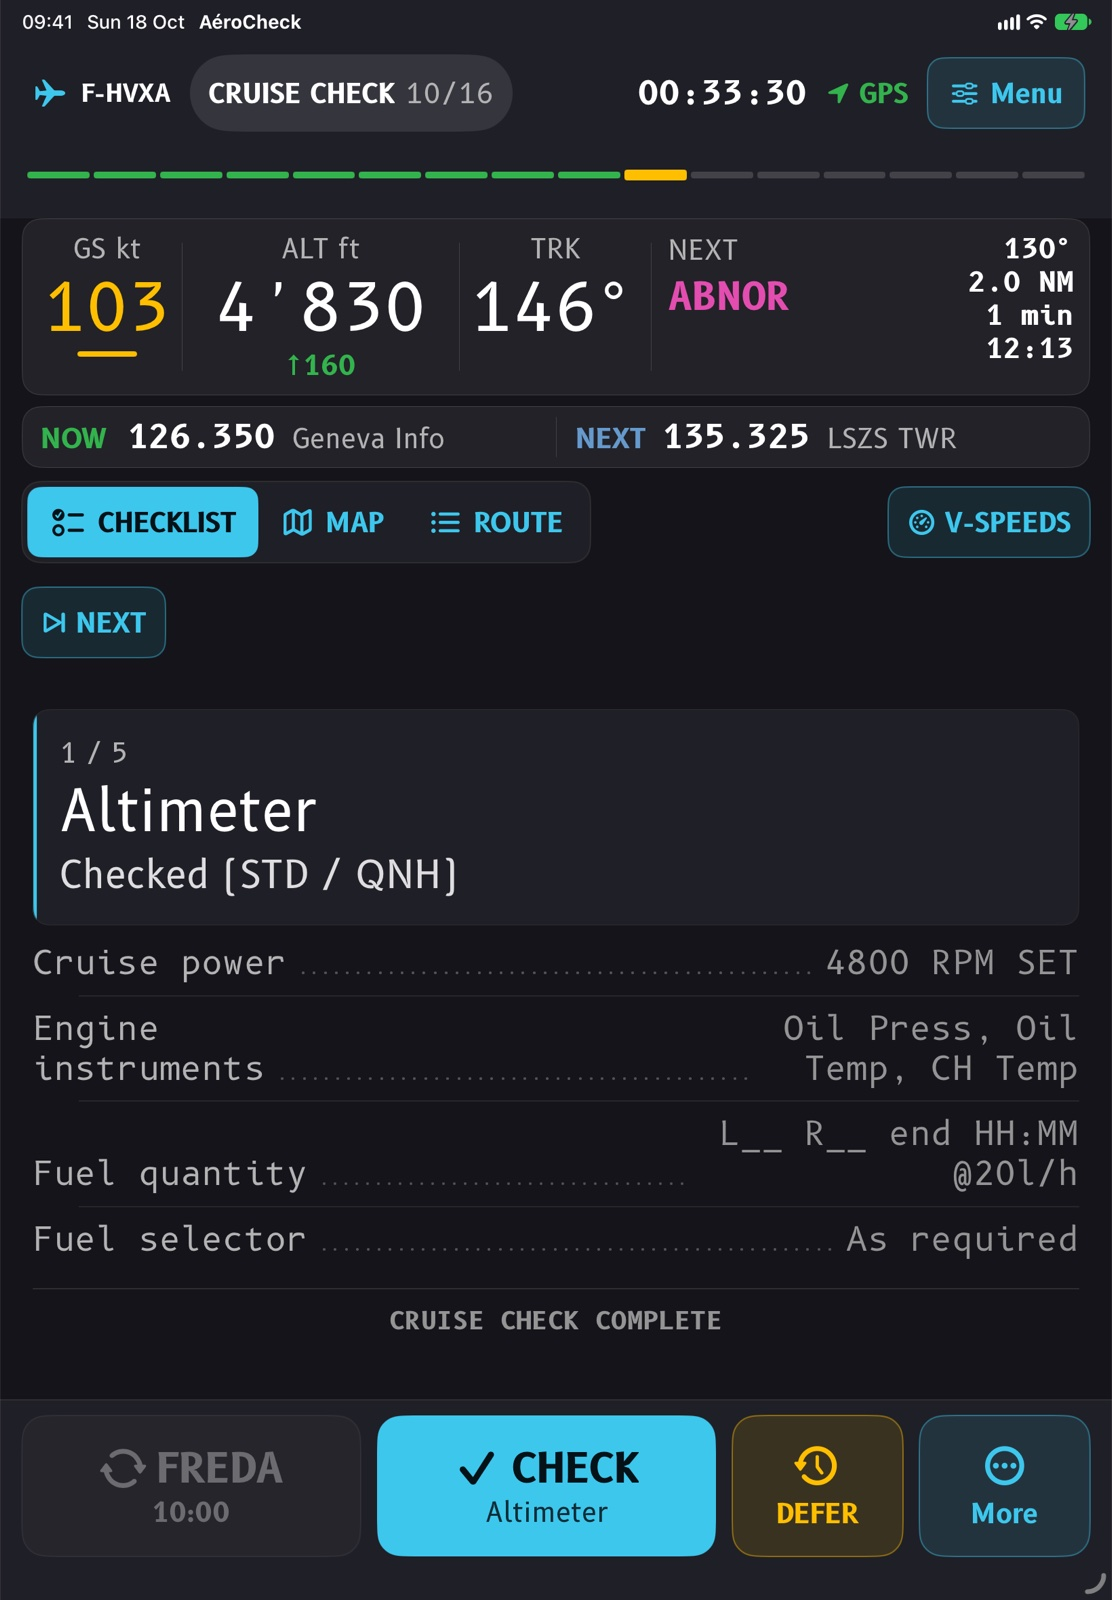
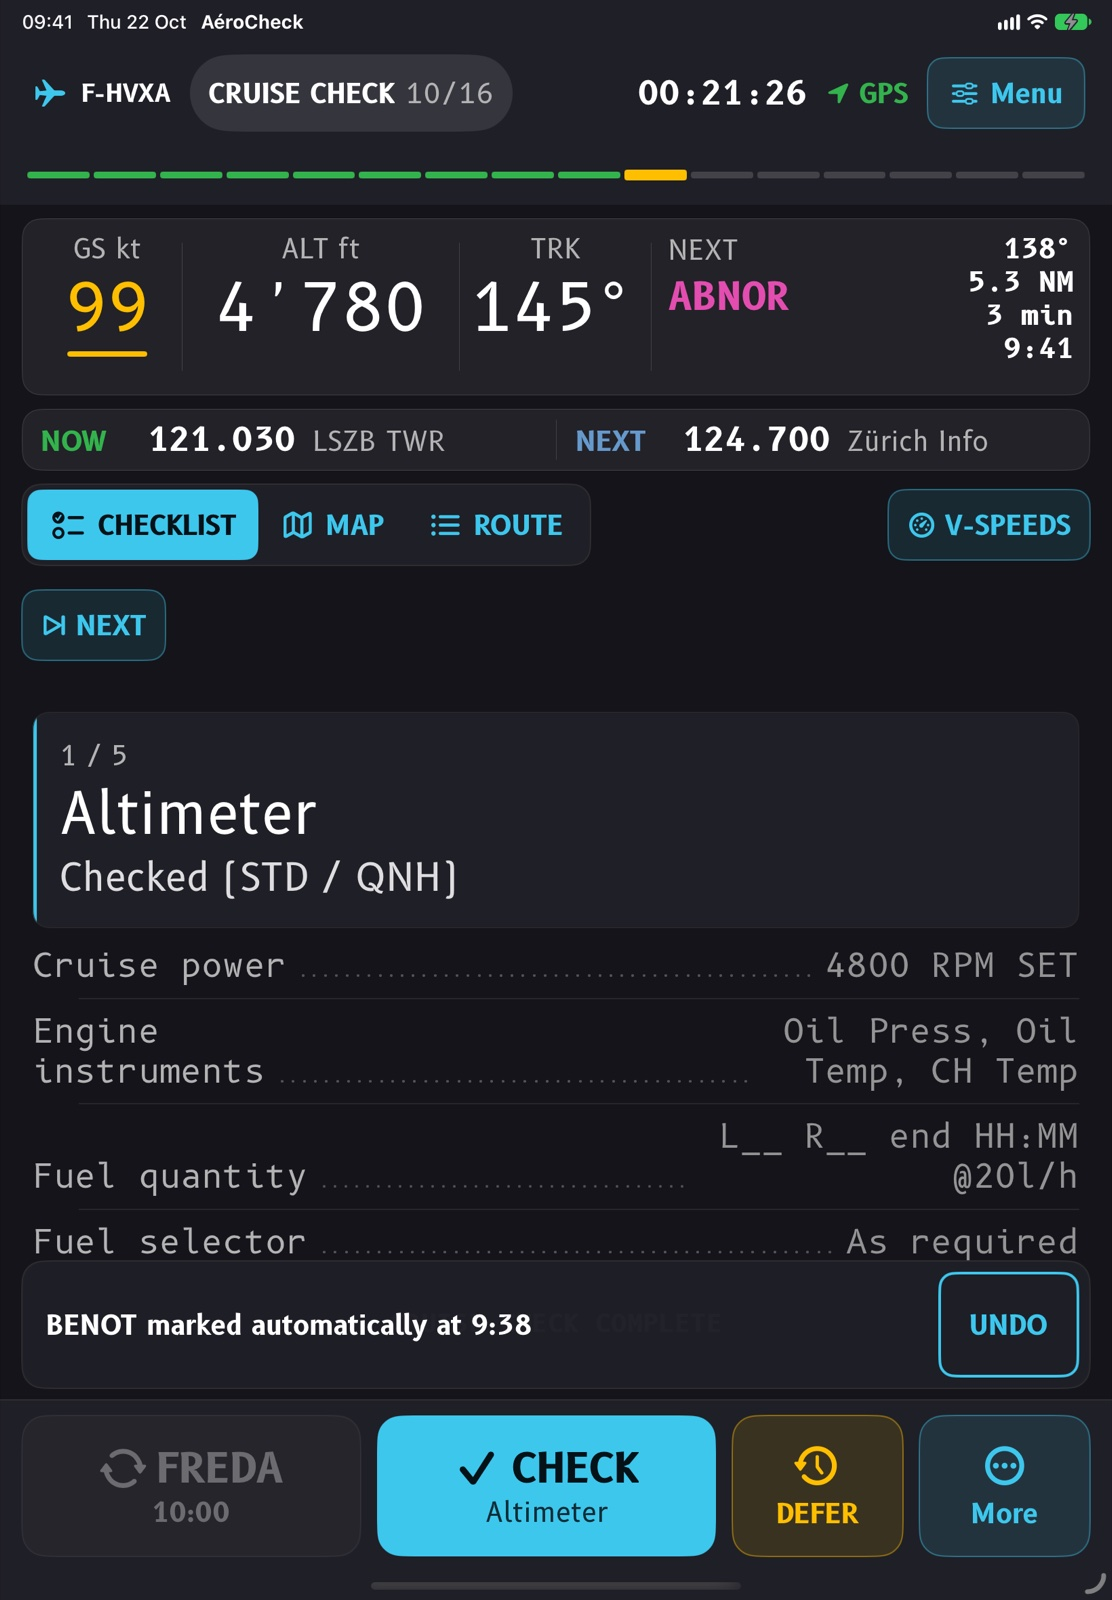
website: the story's Lake Biel frame from 6.4.3
The "Over Lake Biel" frame of /flight still showed 6.4.0's radio (Geneva
Info, Samedan's tower NEXT). Recaptured from the 6.4.3 tag on the same
replay of the 23 Sep flight: BENOT marked automatically with UNDO over
the open cruise check, Bern's tower NOW after a tap on NEXT when it came
due, Zürich Info NEXT. The caption, alt text and time follow, in English
and French, and SCREENSHOTS.md says how the frame was made.

diff --git a/SCREENSHOTS.md b/SCREENSHOTS.md
@@ -171,6 +171,13 @@ aerodromes, so the replay keeps the simulator's own airport data and the frequen
 for these captures). The logbook frame comes from a second, untouched run at 30×. Captured on 18 Oct 2026 for the
 6.4.0 site; the page's times are the Cockpit's flight clock in each frame.
 
+`automark` was recaptured on 22 Oct 2026 from the `6.4.3` tag, for the radio's NOW and NEXT of 6.4.2 and 6.4.3: the
+same scenario at 2× (so the six seconds of BENOT's UNDO last three on the wall clock), flown by a temporary UI test on
+`CockpitPilot` (every check worked, NEXT tapped each time a call came due, the cruise check left open on CHECKLIST,
+shots taken while BENOT's mark offers UNDO). The replay's clock does not take the capture clock (`AEROCHECK_CLOCK`);
+a local change, never committed, started it at 09:16 so the frame reads 9:38 under the status bar's 9:41. The other
+frames are still the 18 Oct run's, whose longer ground holds put the line-up at 00:18 on the flight clock.
+
 ## App Store
 
 **Exact sizes.** App Store Connect matches screenshot dimensions EXACTLY against a device size class
